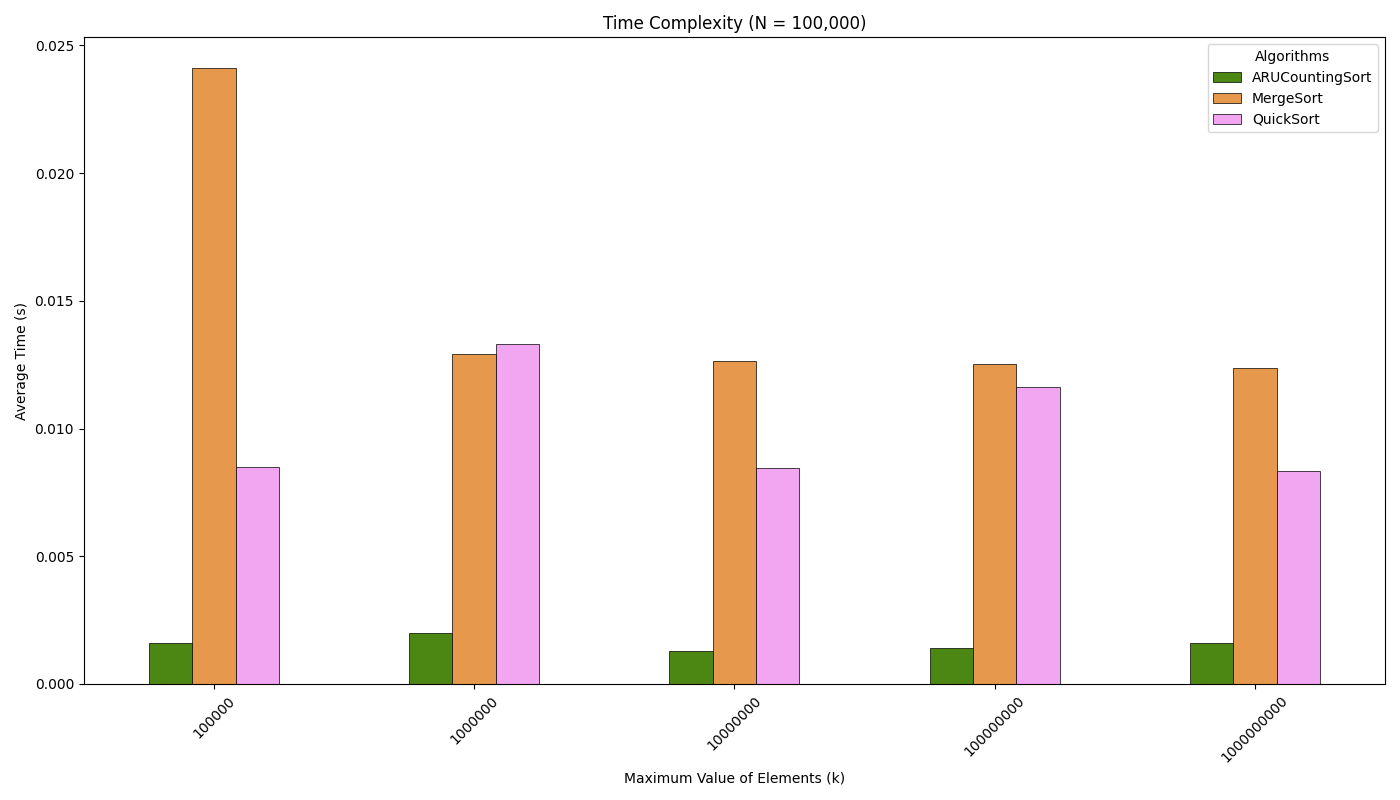
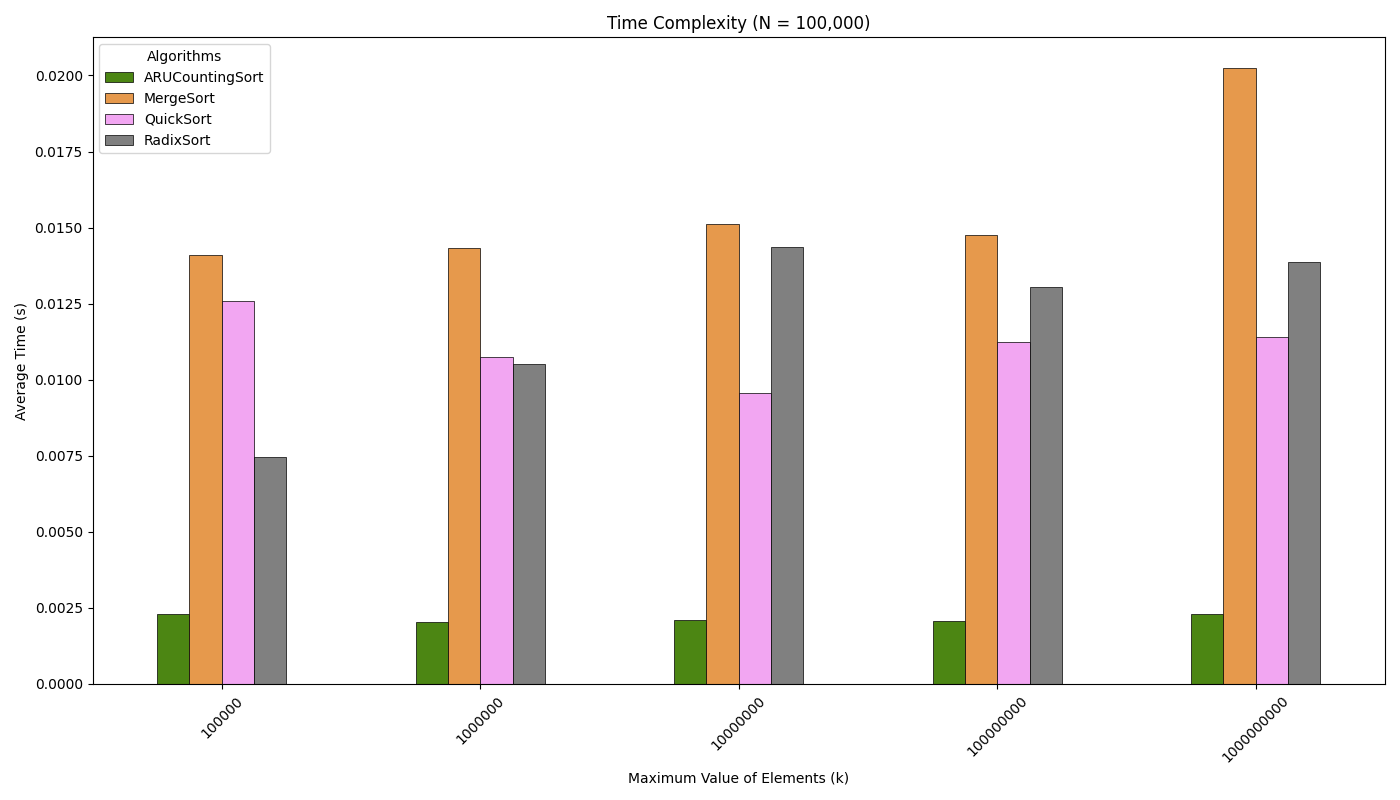
added line graph comparing algorithms

diff --git a/analysis/plotResults.py b/analysis/plotResults.py
@@ -3,7 +3,6 @@ import pandas as pd
 import matplotlib.pyplot as plt
 import seaborn as sns
 import numpy as np
-from matplotlib.ticker import FuncFormatter
 
 # define file path and load data from csv
 directory = os.path.dirname(os.path.abspath(__file__))
@@ -14,41 +13,35 @@ df = pd.read_csv(file_path)
 df['K'] = pd.to_numeric(df['K'])
 df['N'] = pd.to_numeric(df['N'])
 
-# Specify configurations for four graphs
+# Specify configurations for bar graphs
 plot_configs = [
     {
-        "N": 1000, # filter rows where N=1000
-        "K_range": (1000, 10_000_000), # k value from 1000 to 10,000,000
-        "algorithms": ["CountingSort", "ARUCountingSort"], # only graph these algorithms
-        "y_ticks": np.arange(0.0, 1.61, 0.2), 
+        "N": 1000,
+        "K_range": (1000, 10_000_000),
+        "algorithms": ["CountingSort", "ARUCountingSort"],
+        "y_ticks": np.arange(0.0, 1.61, 0.2),
         "y_lim": (0.0, 1.6),
         "title": "Time Complexity (N = 1,000)",
         "filename": "plot_N_1000.png"
     },
     {
         "N": 10000,
-        "K_range": (10000, 10_000_000),
-        "algorithms": None,  # All
-        #"y_ticks": np.arange(0.00, 0.161, 0.02),
-        #"y_lim": (0.0, 0.16),
+        "K_range": (0, 10_000_000),
+        "algorithms": None,
         "title": "Time Complexity (N = 10,000)",
-        "filename": "plot_N_10000.png" # output file
+        "filename": "plot_N_10000.png"
     },
     {
         "N": 100000,
         "K_range": (100000, 1_000_000_000),
-        "algorithms": ["ARUCountingSort", "QuickSort", "MergeSort"],
-        #"y_ticks": np.arange(0.00, 0.101, 0.01),
-        #"y_lim": (0.0, 0.10),
+        "algorithms": ["ARUCountingSort", "QuickSort", "MergeSort", "RadixSort"],
         "title": "Time Complexity (N = 100,000)",
         "filename": "plot_N_100000.png"
     },
     {
         "N": 1_000_000,
         "K_range": (100000, 1_000_000_000),
-        "algorithms": ["ARUCountingSort", "QuickSort", "MergeSort"],
-        #"y_ticks": np.arange(0.0, 1.01, 0.1),
-        #"y_lim": (0.0, 1.0),
+        "algorithms": ["ARUCountingSort", "QuickSort", "MergeSort", "RadixSort"],
         "title": "Time Complexity (N = 1,000,000)",
         "filename": "plot_N_1000000.png"
     }
@@ -59,35 +52,62 @@ colours = {
     "CountingSort": "#FF6666",
     "ARUCountingSort": "#4C9900",
     "QuickSort": "#FF99FF",
-    "MergeSort": "#FF9933"
+    "MergeSort": "#FF9933",
+    "RadixSort": "#808080"
 }
 
-# loop for every graph and save plots
+# loop for bar plots
 for config in plot_configs:
     n_val = config["N"]
     k_min, k_max = config["K_range"]
     allowed_algs = config["algorithms"]
 
-    # filter data according to current graph
+    # filter data for each bar chart
     subset = df[(df["N"] == n_val) & (df["K"] >= k_min) & (df["K"] <= k_max)]
-    # filter by specific algorithms if defined
     if allowed_algs:
         subset = subset[subset["Algorithm"].isin(allowed_algs)]
 
-    # create figure for chart
+    # bar chart
     plt.figure(figsize=(14, 8))
-    sns.barplot(data=subset, x="K", y="AvgTime(s)", hue="Algorithm", palette=colours, edgecolor="black", width=0.5, linewidth=0.5) # bar plot with seaborn
+    sns.barplot(data=subset, x="K", y="AvgTime(s)", hue="Algorithm", palette=colours, edgecolor="black", width=0.5, linewidth=0.5)
 
-    # add title and labels
     plt.title(config["title"])
     plt.xlabel("Maximum Value of Elements (k)")
     plt.ylabel("Average Time (s)")
     plt.xticks(rotation=45)
 
-    # add legend
     plt.legend(title="Algorithms")
     plt.tight_layout()
-
-    # save plot
     plt.savefig(config["filename"])
-    #plt.show()
+    plt.show()
+    
+# line graph
+
+algorithms = ["ARUCountingSort", "QuickSort", "MergeSort", "RadixSort"]
+sub = df[df["Algorithm"].isin(algorithms) & (df["N"] ==  10000)].copy()
+
+# convert time to milliseconds for line graph
+sub["AvgTime(ms)"] = sub["AvgTime(s)"] * 1000
+
+# plot
+plt.figure(figsize=(14, 8))
+
+for alg in algorithms:
+    alg_data = sub[sub["Algorithm"] == alg].sort_values(by="K")
+    if not alg_data.empty:
+        sns.lineplot(data=alg_data, x="K", y="AvgTime(ms)", label=alg, marker="o", linewidth=2, color=colours.get(alg, None))
+
+plt.title("Time Complexity (N = 10,000)")
+plt.xlabel("Maximum Value of Elements (K)")
+plt.ylabel("Average Time (ms)")
+
+plt.xscale("log")
+plt.xlim(left=10000)
+plt.xticks([10_000, 100_000, 1_000_000, 10_000_000, 100_000_000, 1_000_000_000], labels=["10K", "100K", "1M", "10M", "100M", "1B"])
+
+plt.legend(title="Algorithms")
+plt.tight_layout()
+plt.grid(True, linestyle='--', linewidth=0.5, alpha=0.7)
+plt.savefig("line_plot.png")
+plt.show()
+

diff --git a/src/Sorting/Main.java b/src/Sorting/Main.java
@@ -12,12 +12,12 @@ import java.util.function.Consumer;
 public class Main {
     public static void main(String[] args) {
         // initialise sorts to be tested
-        Sorts[] sorts = {new CountingSort(), new ARUCountingSort(), new MergeSort(), new QuickSort()};
+        Sorts[] sorts = {new CountingSort(), new ARUCountingSort(), new MergeSort(), new QuickSort(), new RadixSort()};
 
         // values of n and k to be tested
         int[][] testVals = {
                 {1000,    1000, 10000, 100000, 1000000, 10000000},
-                {10000,   10000, 100000, 1000000, 10000000},
+                {10000,   10000, 100000, 1000000, 10000000, 1000000000},
                 {100000,  100000, 1000000, 10000000, 100000000, 1000000000},
                 {1000000, 100000, 1000000, 10000000, 100000000, 1000000000}
         };
@@ -48,7 +48,7 @@ public class Main {
     }
 
     static Random rand = new Random(); // random number generator
-    static final int NUM_TESTS = 1; // defines number of test to run
+    static final int NUM_TESTS = 5; // defines number of test to run
 
     /**
      * Tests a sorting algorithm

diff --git a/src/Sorting/RadixSort.java b/src/Sorting/RadixSort.java
@@ -1,7 +1,5 @@
 package Sorting;
 
-import java.util.Arrays;
-
 public class RadixSort implements Sorts {
     public void sort(final Integer[] A) {
         if (A == null || A.length == 0) return;
